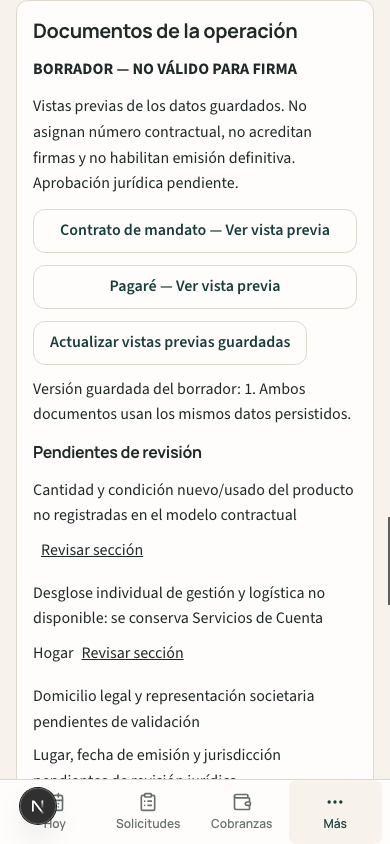
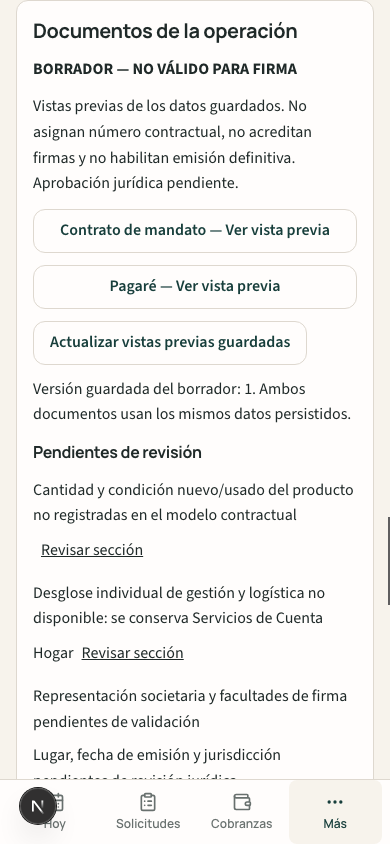
fix(contracts): centralize confirmed legal entity details

Changed region(s): [[0.0923, 0.8009, 0.8923, 0.8318]]

diff --git a/src/lib/contractDocuments/operationDraftTemplates.ts b/src/lib/contractDocuments/operationDraftTemplates.ts
@@ -1,12 +1,13 @@
 // Proposed harmonization of the supplied PDFs, not legal approval. Historical templates remain unchanged.
+import { contractLegalEntity } from './legalEntity';
 export const draftWarning='BORRADOR — NO VÁLIDO PARA FIRMA';
 export const draftClauses=[
- ['PRIMERA: Objeto del mandato y documentación de compra','El CLIENTE encomienda a LOOP GESTIÓN INTEGRAL S.R.L., como mandataria, la gestión de la adquisición por su cuenta y orden del bien identificado. El mandato es específico y la representación queda limitada a esa gestión; no se lo califica como irrevocable. Cantidad, condición del producto y alcance de la representación: pendientes de revisión cuando no consten en la operación.','Para productos nuevos, la compra se realiza por cuenta y orden del cliente y el proveedor debe emitir la factura a su nombre. La factura debe entregarse al cliente y conservarse su trazabilidad administrativa. Para productos usados, el tratamiento documental debe corresponder al origen y a la operación; no se presume una factura inexistente.'],
+ ['PRIMERA: Objeto del mandato y documentación de compra',`El CLIENTE encomienda a ${contractLegalEntity.legalName}, como mandataria, la gestión de la adquisición por su cuenta y orden del bien identificado. El mandato es específico y la representación queda limitada a esa gestión; no se lo califica como irrevocable. Cantidad, condición del producto y alcance de la representación: pendientes de revisión cuando no consten en la operación.`,'Para productos nuevos, la compra se realiza por cuenta y orden del cliente y el proveedor debe emitir la factura a su nombre. La factura debe entregarse al cliente y conservarse su trazabilidad administrativa. Para productos usados, el tratamiento documental debe corresponder al origen y a la operación; no se presume una factura inexistente.'],
  ['SEGUNDA: Capital, retribuciones y servicios','Los importes que siguen corresponden exclusivamente a las condiciones guardadas de esta operación. El modelo vigente identifica capital aplicado, Servicios de Cuenta Hogar y total contractual. Servicios de Cuenta Hogar agrupa las retribuciones y servicios pactados; su distribución individual entre gestión y logística permanece pendiente de revisión y no se inventa en este documento. No se califica ese importe como CFT.'],
  ['TERCERA: Plan de pagos y pagaré','El MANDANTE se obliga a reintegrar el capital aplicado y abonar los servicios pactados por el total contractual indicado, conforme al cronograma. El total contractual y cada vencimiento se transcriben del cronograma guardado, sin recalcular importes ni fechas. No se incorpora anticipo, porque el modelo vigente no lo contempla. El pagaré de referencia es a la vista, sin protesto y sin garante, por el total contractual; su exigibilidad y coordinación con el plan del mandato requieren revisión jurídica independiente. Este borrador no acredita firma ni genera obligaciones nuevas.'],
  ['CUARTA: Mora e incumplimiento — propuesta para revisión jurídica','La cuota queda vencida al día siguiente de su vencimiento pactado. No se aplican intereses punitorios, intereses moratorios, capitalización, recargos ni penalidades automáticas; el importe original adeudado no aumenta automáticamente por el atraso. Ante dos cuotas consecutivas impagas puede iniciarse el procedimiento de vencimiento anticipado, previa intimación al cliente con un plazo de regularización de diez días corridos. Si regulariza conforme al procedimiento pactado, el plan continúa. La instrumentación y notificación de este procedimiento quedan sujetas a revisión jurídica. Su tratamiento es separado de la exigibilidad cambiaria del pagaré.'],
  ['QUINTA: Entrega, observaciones y custodia','El circuito requiere firma física del cliente en el mandato, el pagaré y el remito; si falta cualquiera de ellas, no se entrega el producto. Se sugiere verificación visual, con registro de observaciones, daños o rechazo y conservación de la custodia y trazabilidad. La firma del remito no constituye renuncia general a derechos ni certificación técnica de funcionamiento. Las fotografías de los documentos no sustituyen sus originales.'],
  ['SEXTA: Garantías y responsabilidades — pendiente de revisión jurídica','Las condiciones de garantía y responsabilidades deben revisarse según el producto, su condición y la operación. No se traslada la exención general del modelo de referencia ni una aceptación automática del bien usado “tal como está”. No se presume renuncia a derechos. La redacción definitiva y la coordinación con el proveedor requieren aprobación jurídica.'],
- ['SÉPTIMA: Domicilios, jurisdicción y firma','Domicilio legal, representación societaria, jurisdicción competente, lugar y fecha de emisión: pendientes de validación y revisión jurídica. No se toman del generador legacy ni se completan por inferencia. Se reservan espacios para las firmas físicas del cliente y de LOOP; este ejemplar es sólo un borrador para revisión.'],
+ ['SÉPTIMA: Domicilios, jurisdicción y firma','Representación societaria y facultades de firma, jurisdicción competente, lugar y fecha efectiva de emisión: pendientes de validación y revisión jurídica. La jurisdicción no se infiere del domicilio legal confirmado. No se toman del generador legacy ni se completan por inferencia. Se reservan espacios para las firmas físicas del cliente y de LOOP; este ejemplar es sólo un borrador para revisión.'],
 ] as const;
-export const noteDraftText='A LA VISTA, pagaré sin protesto y sin garante a la orden de LOOP GESTIÓN INTEGRAL S.R.L., por el importe indicado en números y letras en este borrador. Lugar de pago, lugar y fecha de emisión: pendientes de determinación y revisión jurídica. La exigibilidad del título y su coordinación con el cronograma del contrato de mandato permanecen pendientes de aprobación profesional. No se incorporan intereses punitorios, moratorios ni capitalización automática.';
+export const noteDraftText=`A LA VISTA, pagaré sin protesto y sin garante a la orden de ${contractLegalEntity.legalName}, por el importe indicado en números y letras en este borrador. Lugar de pago, lugar y fecha de emisión: pendientes de determinación y revisión jurídica. La exigibilidad del título y su coordinación con el cronograma del contrato de mandato permanecen pendientes de aprobación profesional. No se incorporan intereses punitorios, moratorios ni capitalización automática.`;

diff --git a/src/lib/contractDocuments/operationDraftPdf.ts b/src/lib/contractDocuments/operationDraftPdf.ts
@@ -34,7 +34,7 @@ export function generateOperationDraftPair(p:OperationDraftProjection){
   line(title,14,true);line('Propuesta para revisión jurídica · Sin numeración contractual definitiva',9);
   const c=p.customer,e=p.economics;
   if(kind==='mandate'){
-   line(`Entre ${p.issuer.legalName}, CUIT ${p.issuer.taxId}, que opera bajo la marca ${p.issuer.tradeName}, domicilio legal y representación: ${pending}, en adelante la MANDATARIA, y ${c.fullName||pending}, DNI ${c.dni||pending}, CUIL ${c.cuil||pending}, domicilio ${c.address||pending}, ${c.locality||pending}, ${c.province||pending}, CP ${c.postalCode||pending}, correo ${c.email||pending}, WhatsApp ${c.whatsapp||pending}, en adelante el MANDANTE o CLIENTE, se presenta el siguiente borrador de mandato específico.`);
+   line(`Entre ${p.issuer.legalName}, CUIT ${p.issuer.taxId}, que opera bajo la marca ${p.issuer.tradeName}, domicilio legal: ${p.issuer.legalAddress}; representación societaria y facultades de firma: ${pending}, en adelante la MANDATARIA, y ${c.fullName||pending}, DNI ${c.dni||pending}, CUIL ${c.cuil||pending}, domicilio ${c.address||pending}, ${c.locality||pending}, ${c.province||pending}, CP ${c.postalCode||pending}, correo ${c.email||pending}, WhatsApp ${c.whatsapp||pending}, en adelante el MANDANTE o CLIENTE, se presenta el siguiente borrador de mandato específico.`);
    for(const [index,clause] of draftClauses.entries()){
     if(y>240){doc.addPage();y=24;}line(clause[0],11,true);clause.slice(1).forEach(s=>line(s));
     if(index===0){table(['Cantidad','Bien solicitado','Condición'],[[pending,`${p.product.name} — ${p.product.description}`,pending]]);}
@@ -44,7 +44,7 @@ export function generateOperationDraftPair(p:OperationDraftProjection){
   }else{
    line('Sin garante',11,true);line('Por '+(e?money(e.total):pending),15,true);
    line(e?amountWords(e.total):'Importe en letras: '+pending,11,true);
-   line(`Beneficiario: ${p.issuer.legalName}. CUIT ${p.issuer.taxId}. Marca comercial: Cuenta Hogar.`,11,true);
+   line(`Beneficiario: ${p.issuer.legalName}. CUIT ${p.issuer.taxId}. Nombre comercial: ${p.issuer.tradeName}. Domicilio legal: ${p.issuer.legalAddress}.`,11,true);
    line(noteDraftText,10);
    line('DATOS DEL DEUDOR',11,true);
    for(const s of [`Nombre y apellido: ${c.fullName||pending}`,`DNI: ${c.dni||pending} · CUIL: ${c.cuil||pending}`,`Domicilio: ${c.address||pending}`,`Localidad: ${c.locality||pending} · Provincia: ${c.province||pending} · CP: ${c.postalCode||pending}`,`Contacto: ${c.whatsapp||pending}`,`Lugar y fecha de emisión: ${pending}`,`Domicilio de pago y jurisdicción: ${pending}`])line(s);
@@ -55,7 +55,7 @@ export function generateOperationDraftPair(p:OperationDraftProjection){
   }
   if(y>237){doc.addPage();y=24;}y+=12;
   line('____________________________________',11);line('Firma física del cliente — NO FIRMAR ESTE BORRADOR',9);
-  if(kind==='mandate'){y+=7;line('____________________________________',11);line('Por LOOP GESTIÓN INTEGRAL S.R.L. — representación pendiente',9);}
+  if(kind==='mandate'){y+=7;line('____________________________________',11);line(`Por ${p.issuer.legalName} — representación pendiente`,9);}
   const pages=doc.getNumberOfPages();
   for(let n=1;n<=pages;n++){doc.setPage(n);doc.setTextColor(150,35,35);doc.setFontSize(9);doc.setFont('helvetica','bold');doc.text(draftWarning,18,12);doc.setFont('helvetica','normal');doc.setFontSize(8);doc.text('APROBACIÓN JURÍDICA PENDIENTE · SIN EMISIÓN DEFINITIVA',18,282);doc.setTextColor(80);doc.setFontSize(7);doc.text(`${OPERATION_DOCUMENT_VERSION} · Revisión ${p.draftRevision} · ${n}/${pages}`,18,287);doc.text(`Origen ${p.sourceHash.slice(0,20)} · Sin numeración definitiva`,18,291);}
   const bytes=Buffer.from(doc.output('arraybuffer'));return {base64:bytes.toString('base64'),sha256:createHash('sha256').update(bytes).digest('hex'),pages};

diff --git a/scripts/testOperationDraftDocuments.ts b/scripts/testOperationDraftDocuments.ts
@@ -4,6 +4,7 @@ import { infrastructureFixture } from './helpers/contractInfrastructureFixtures'
 import { projectOperationDraft } from '../src/lib/contractDocuments/operationDraft';
 import { generateOperationDraftPair } from '../src/lib/contractDocuments/operationDraftPdf';
 import { amountWords } from '../src/lib/contractDocuments/amountWords';
+import { contractLegalEntity } from '../src/lib/contractDocuments/legalEntity';
 import { contractEconomics,contractSchedule } from '../src/lib/contractV2';
 import { contractValueHash } from '../src/lib/contractIntegrityV2';
 const folder='/tmp/cuenta-hogar-operation-documents';mkdirSync(folder,{recursive:true});
@@ -12,7 +13,7 @@ for(let n=1;n<=18;n++){
  d.employmentData.cuil='20-12345678-6';
  d.economicTerms=contractEconomics(a.optionSnapshot.referenceSnapshot,n);d.paymentScheduleDraft=contractSchedule(d.economicTerms,d.firstInstallmentDueDate!,30);
  const before=contractValueHash({b,a,d}),p=projectOperationDraft(b,a,d,false,false),pair=generateOperationDraftPair(p);
- assert.equal(p.economics!.total,d.economicTerms.contractTotal);assert.deepEqual(p.schedule,d.paymentScheduleDraft);assert.equal(p.number,null);assert.equal(p.issuer.taxId,'30-71962686-2');assert.equal(p.legalApproval,'PENDING');assert.equal(pair.promissoryNote.pages,1);
+ assert.equal(p.economics!.total,d.economicTerms.contractTotal);assert.deepEqual(p.schedule,d.paymentScheduleDraft);assert.equal(p.number,null);assert.equal(p.issuer.taxId,'30-71962686-2');assert.equal(p.issuer.legalName,'LOOP GESTIÓN INTEGRAL S.R.L.');assert.equal(p.issuer.tradeName,'Cuenta Hogar');assert.equal(p.issuer.legalAddress,'Caracas 1101, Ciudad Autónoma de Buenos Aires, CP 1431');assert.deepEqual(p.issuer,contractLegalEntity);assert.ok(Object.isFrozen(contractLegalEntity));assert.ok(p.pending.some(x=>x.label.includes('Representación societaria y facultades de firma')));assert.ok(p.pending.some(x=>x.label.includes('jurisdicción')));assert.ok(!p.pending.some(x=>x.label.includes('Domicilio legal y representación')));assert.equal(p.legalApproval,'PENDING');assert.equal(pair.promissoryNote.pages,1);
  assert.equal(before,contractValueHash({b,a,d}));assert.equal(pair.mandate.sha256,generateOperationDraftPair(p).mandate.sha256);
  if(n===18){writeFileSync(folder+'/mandato.pdf',Buffer.from(pair.mandate.base64,'base64'));writeFileSync(folder+'/pagare.pdf',Buffer.from(pair.promissoryNote.base64,'base64'));writeFileSync(folder+'/projection.json',JSON.stringify(p,null,2));writeFileSync(folder+'/manifest.json',JSON.stringify({templateVersion:pair.templateVersion,templateHash:pair.templateHash,rendererHash:pair.rendererHash,sourceHash:p.sourceHash,projectionHash:p.projectionHash,artifacts:{mandate:{sha256:pair.mandate.sha256,pages:pair.mandate.pages},promissoryNote:{sha256:pair.promissoryNote.sha256,pages:pair.promissoryNote.pages}}},null,2));}
  const blocked=projectOperationDraft(b,a,d,true,false);assert.equal(blocked.canPreview,false);assert.throws(()=>generateOperationDraftPair(blocked));assert.throws(()=>generateOperationDraftPair(projectOperationDraft(b,a,d,false,true)));

diff --git a/src/lib/contractDocuments/operationDraft.ts b/src/lib/contractDocuments/operationDraft.ts
@@ -5,8 +5,9 @@ import { calendarDate, dataFields, personalFields, personalForEditing, type Cont
 import { contractValueHash } from '../contractIntegrityV2';
 import { operationFromAcceptance } from '../operationV2';
 import { provinceLabel } from '../contractAddress';
-export const OPERATION_DOCUMENT_VERSION = 'OPERATION_DRAFT_REVIEW_V1';
-export const issuerDraft = Object.freeze({legalName:'LOOP GESTIÓN INTEGRAL S.R.L.',tradeName:'Cuenta Hogar',taxId:'30-71962686-2'});
+import { contractLegalEntity } from './legalEntity';
+export const OPERATION_DOCUMENT_VERSION = 'OPERATION_DRAFT_REVIEW_V2';
+export const issuerDraft = contractLegalEntity;
 export interface DocumentPending {label:string;section:'data'|'terms'|'schedule'|'identity'|'legal'}
 export function projectOperationDraft(b:BudgetV2,a:BudgetAcceptanceV2,d:ContractDraftV2,identityBlocked:boolean,conformityPending:boolean){
  const fail=()=>{throw Error('DOCUMENT_ORIGIN_INCONSISTENT');};
@@ -25,7 +26,7 @@ export function projectOperationDraft(b:BudgetV2,a:BudgetAcceptanceV2,d:Contract
  if(!d.employmentData.cuil)missing('CUIL del cliente','data');
  missing('Cantidad y condición nuevo/usado del producto no registradas en el modelo contractual','terms');
  missing('Desglose individual de gestión y logística no disponible: se conserva Servicios de Cuenta Hogar','terms');
- missing('Domicilio legal y representación societaria pendientes de validación','legal');
+ missing('Representación societaria y facultades de firma pendientes de validación','legal');
  missing('Lugar, fecha de emisión y jurisdicción pendientes de revisión jurídica','legal');
  missing('Aprobación jurídica del mandato y de la exigibilidad del pagaré','legal');
  missing('Snapshot contractual definitivo pendiente; vista previa de borrador persistido','legal');

diff --git a/src/lib/contractDocuments/legalEntity.ts b/src/lib/contractDocuments/legalEntity.ts
@@ -1,0 +1,8 @@
+// Owner-confirmed identity for new draft previews only. Not a legal approval or migration.
+export const contractLegalEntity=Object.freeze({
+ version:'LOOP_LEGAL_ENTITY_OWNER_CONFIRMED_V1',
+ legalName:'LOOP GESTIÓN INTEGRAL S.R.L.',
+ tradeName:'Cuenta Hogar',
+ taxId:'30-71962686-2',
+ legalAddress:'Caracas 1101, Ciudad Autónoma de Buenos Aires, CP 1431',
+} as const);

diff --git a/scripts/verifyOperationDraftPdfs.py b/scripts/verifyOperationDraftPdfs.py
@@ -7,6 +7,11 @@ for doc in [m,n]:
  for page in doc.pages: assert 'BORRADOR' in page.extract_text() and 'NO VÁLIDO PARA FIRMA' in page.extract_text()
 for text in [mt,nt]:
  assert p['issuer']['legalName'] in text and p['issuer']['taxId'] in text
+ assert p['issuer']['legalAddress'] in ' '.join(text.split())
+ assert '30-71829384-9' not in text
+ assert 'domicilio legal y representación: PENDIENTE' not in text
+ assert 'Representación societaria y facultades de firma' in mt
+ assert 'La jurisdicción no se infiere del domicilio legal confirmado.' in ' '.join(mt.split())
  assert 'Cuenta Hogar S.R.L.' not in text
  assert not re.search(r'\d+(?:[.,]\d+)?\s*%',text)
  assert 'CH-000001' not in text

diff --git a/docs/OPERATION_CONTRACT_DRAFT_PREVIEWS.md b/docs/OPERATION_CONTRACT_DRAFT_PREVIEWS.md
@@ -15,9 +15,9 @@ Son referencias de estructura y redacción, no instrucciones ejecutables ni apro
 
 ## Identidad societaria y discrepancias
 
-El borrador versionado usa exclusivamente la identidad expresamente aprobada por el propietario: **LOOP GESTIÓN INTEGRAL S.R.L., CUIT 30-71962686-2**, marca Cuenta Hogar. Esto no representa verificación documental externa ni aprobación jurídica.
+El borrador versionado usa exclusivamente la identidad expresamente aprobada por el propietario: **LOOP GESTIÓN INTEGRAL S.R.L., CUIT 30-71962686-2**, nombre comercial Cuenta Hogar y domicilio legal **Caracas 1101, Ciudad Autónoma de Buenos Aires, CP 1431**. La única configuración del generador nuevo es `src/lib/contractDocuments/legalEntity.ts`; ambos instrumentos, sus cláusulas y firmas la consumen. Esto no representa verificación documental externa ni aprobación jurídica.
 
-Se encontraron valores distintos en `src/lib/pdfGenerator.ts` (CUIT `30-71829384-9`, domicilio Caracas 1101, CABA), `src/app/propuesta/page.tsx` y `src/app/firmar-contrato/[id]/FirmarContratoClient.tsx`. No se modifican esos generadores, pantallas ni configuraciones históricas. El perfil sintético congelado anterior tampoco es fuente de identidad real. Domicilio legal, representación y jurisdicción continúan pendientes: no se infieren del legacy.
+Se encontraron valores distintos en `src/lib/pdfGenerator.ts` (CUIT `30-71829384-9`, domicilio Caracas 1101, CABA), `src/app/propuesta/page.tsx` y `src/app/firmar-contrato/[id]/FirmarContratoClient.tsx`. No se modifican esos generadores, pantallas ni configuraciones históricas. El perfil sintético congelado anterior tampoco es fuente de identidad real. El domicilio legal queda confirmado por instrucción expresa del propietario. Representación y facultades de firma, jurisdicción y lugar/fecha efectiva de emisión siguen pendientes. La jurisdicción no se infiere del domicilio legal.
 
 ## Correspondencia de cláusulas
 
@@ -25,7 +25,7 @@ Todas las propuestas siguientes permanecen **PENDIENTES DE REVISIÓN JURÍDICA**
 
 | Referencia original | Decisión aprobada | Incompatibilidad | Propuesta incorporada al borrador | Revisión |
 | --- | --- | --- | --- | --- |
-| Encabezados: LOOP GESTION INTEGRAL; CUIT y domicilio incompletos | LOOP GESTIÓN INTEGRAL S.R.L.; CUIT aprobado; Cuenta Hogar es marca | Título de archivo no constituye razón social; CUIT legacy diferente | Identidad aprobada, domicilio y representación pendientes | Pendiente documental/jurídica |
+| Encabezados: LOOP GESTION INTEGRAL; CUIT y domicilio incompletos | LOOP GESTIÓN INTEGRAL S.R.L.; CUIT aprobado; Cuenta Hogar es marca | Título de archivo no constituye razón social; CUIT legacy diferente | Identidad y domicilio legal confirmados; representación y facultades pendientes | Pendiente documental/jurídica |
 | PRIMERA: mandato irrevocable para gestionar, adquirir y abonar | Mandato específico, representación limitada | Irrevocabilidad por defecto no aprobada | Encargo específico de gestionar adquisición por cuenta y orden del cliente, representación limitada; sin calificación irrevocable | Pendiente |
 | PRIMERA / facturación: factura supeditada a disponibilidad según origen | Nuevo: factura del proveedor a nombre del cliente, entrega y trazabilidad | Factura opcional para bien nuevo | Tratamientos diferenciados de nuevo/usado; sin factura ficticia ni elección automática de condición | Pendiente |
 | SEGUNDA: valor neto + gestión/logística; CFT; total a financiar | Capital, Servicios de Cuenta Hogar y total persistidos | No existe desglose separado ni cálculo CFT validado | Tres conceptos vigentes; señalar desglose de gestión/logística pendiente, sin repartir porcentajes | Pendiente |
@@ -60,7 +60,7 @@ La transacción sólo lee Budget, Acceptance, Draft, conformidad y fuentes de re
 
 La política de formato monetario conserva todos los decimales persistidos (también se prueba capital con tres decimales); no usa redondeo de presentación. El renderer nuevo no lee fuentes TS en runtime: el hash usa el código cargado, su versión, los formateadores y jsPDF, para ser compatible con standalone sin modificar el renderer histórico.
 
-Se conservan hash del origen persistido, hash de proyección, versión/hash de plantilla, hash del renderer y SHA-256 de cada PDF. La versión es `OPERATION_DRAFT_REVIEW_V1`; una futura modificación publicada debe tener una nueva versión. No se alteran las plantillas anteriores ni los manifiestos/snapshots históricos.
+Se conservan hash del origen persistido, hash de proyección, versión/hash de plantilla, hash del renderer y SHA-256 de cada PDF. La versión es `OPERATION_DRAFT_REVIEW_V2`; una futura modificación publicada debe tener una nueva versión. No se alteran las plantillas anteriores ni los manifiestos/snapshots históricos.
 
 Discrepancia de identidad no resuelta o conformidad requerida pendiente: se muestran los motivos y se bloquea el PDF. Los restantes faltantes se muestran como pendientes, sin valores ficticios. Al guardar una nueva revisión se descartan las vistas anteriores; la actualización manual también relee datos. Cambio de sesión, desmontaje y respuestas tardías invalidan la selección y revocan los blobs. No se crean enlaces públicos permanentes. En móvil se ofrece apertura en el visor nativo del dispositivo; se evita el iframe incrustado por su soporte irregular. En escritorio se mantiene iframe y enlace de apertura alternativo. Las capturas headless no certifican la rasterización del plugin PDF nativo; cada página se verifica adicionalmente mediante Poppler.
 
@@ -106,3 +106,17 @@ Bloqueos conservados: congelamiento productivo, número CH, emisión definitiva,
 TypeScript, ESLint diferencial (cero diagnósticos nuevos), build, test:safe, unitarias de documentos, extracción de texto PDF, Emulator y ambas suites browser: **PASS**. La suite browser comprueba el formulario vigente e histórico, READY, C1/archivo emulado y vistas por operación en desktop/mobile. El runner cierra explícitamente el visor PDF y utiliza un gesto de usuario CDP para aceptar la confirmación nativa de revisión; no sustituye el resultado de READY. Detalle reproducible: `docs/evidence/operation-contract-drafts/validation.json`.
 
 La comprobación adicional `scripts/testOperationDraftStandalone.ts` inicia el paquete standalone local con proyecto demo y destinos Emulator. GET anónimo retorna **401**, antes de cualquier lectura Firebase: prueba la importación del renderer en el paquete real sin fuentes TS. No inicia usuarios ni escribe datos. Se comprobó además la preservación de capital con tres decimales y la representación en letras de todo entero seguro, sin imponer un tope comercial nuevo.
+
+## Actualización societaria del PR #67
+
+Confirmación expresa del propietario: razón social LOOP GESTIÓN INTEGRAL S.R.L.; nombre comercial Cuenta Hogar; CUIT 30-71962686-2; domicilio legal Caracas 1101, Ciudad Autónoma de Buenos Aires, CP 1431. Configuración versionada `LOOP_LEGAL_ENTITY_OWNER_CONFIRMED_V1`; borradores `OPERATION_DRAFT_REVIEW_V2`. La actualización no implica aprobación de cláusulas ni facultades de firma.
+
+| Componente legacy revisado | Diferencia / riesgo | Decisión |
+| --- | --- | --- |
+| `src/lib/pdfGenerator.ts` | CUIT antiguo hardcodeado en mandato/pagaré; referencias societarias y domicilio no centralizados | Sin cambios. No usar como fuente del generador nuevo ni regenerar documentos históricos |
+| `src/app/propuesta/page.tsx` | Identificación visual con CUIT histórico | Sin cambios en este ajuste; cualquier acceso guardado a ese circuito puede seguir mostrando esa identidad histórica. No se crea un acceso desde V2 |
+| `src/app/firmar-contrato/[id]/FirmarContratoClient.tsx` | Encabezado/texto legacy con CUIT anterior y domicilio abreviado | Sin cambios; no habilitar firma ni emisión legacy desde V2. No sustituir información de documentos ya emitidos |
+
+No se realizó sustitución global ni se consultaron, migraron o modificaron registros productivos. Las muestras de `output/pdf/` son exclusivamente sintéticas y se regeneran para revisión. Permanecen pendientes representación/facultades, jurisdicción, lugar/fecha efectiva de emisión de cada instrumento, exigibilidad del pagaré y aprobación jurídica definitiva. El domicilio legal no se reutiliza automáticamente como domicilio de pago.
+
+Comparación antes/después con la misma operación sintética: economía, los 18 vencimientos y hash de datos de origen idénticos. Los hashes de proyección, plantilla y PDF cambian por la identificación societaria y la versión documental, sin alterar la fuente contractual.
